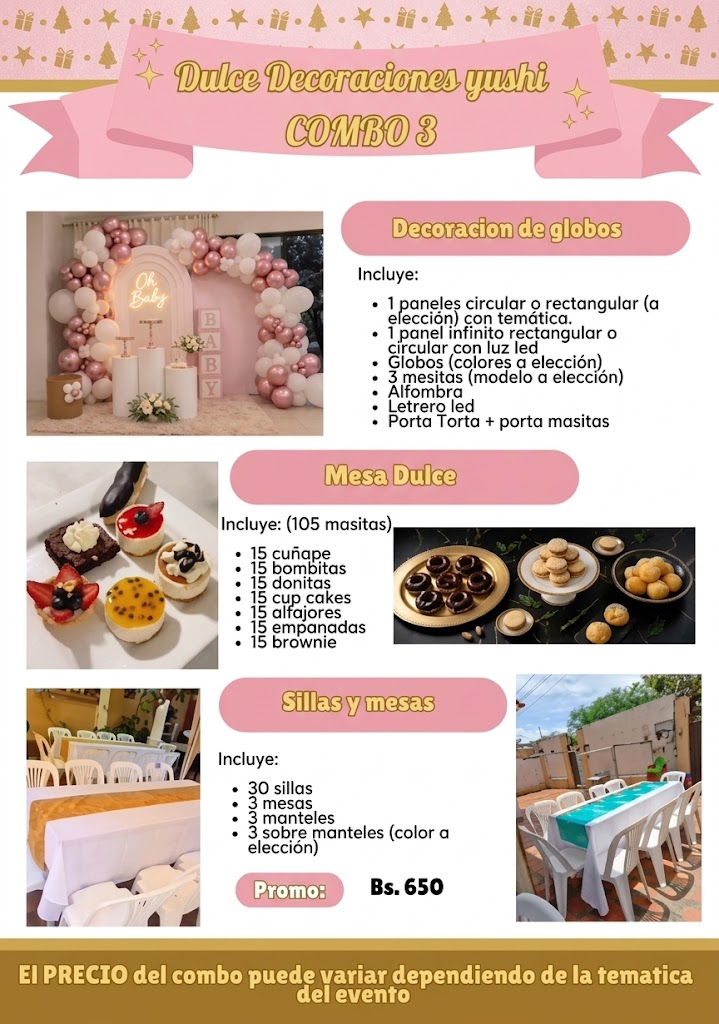
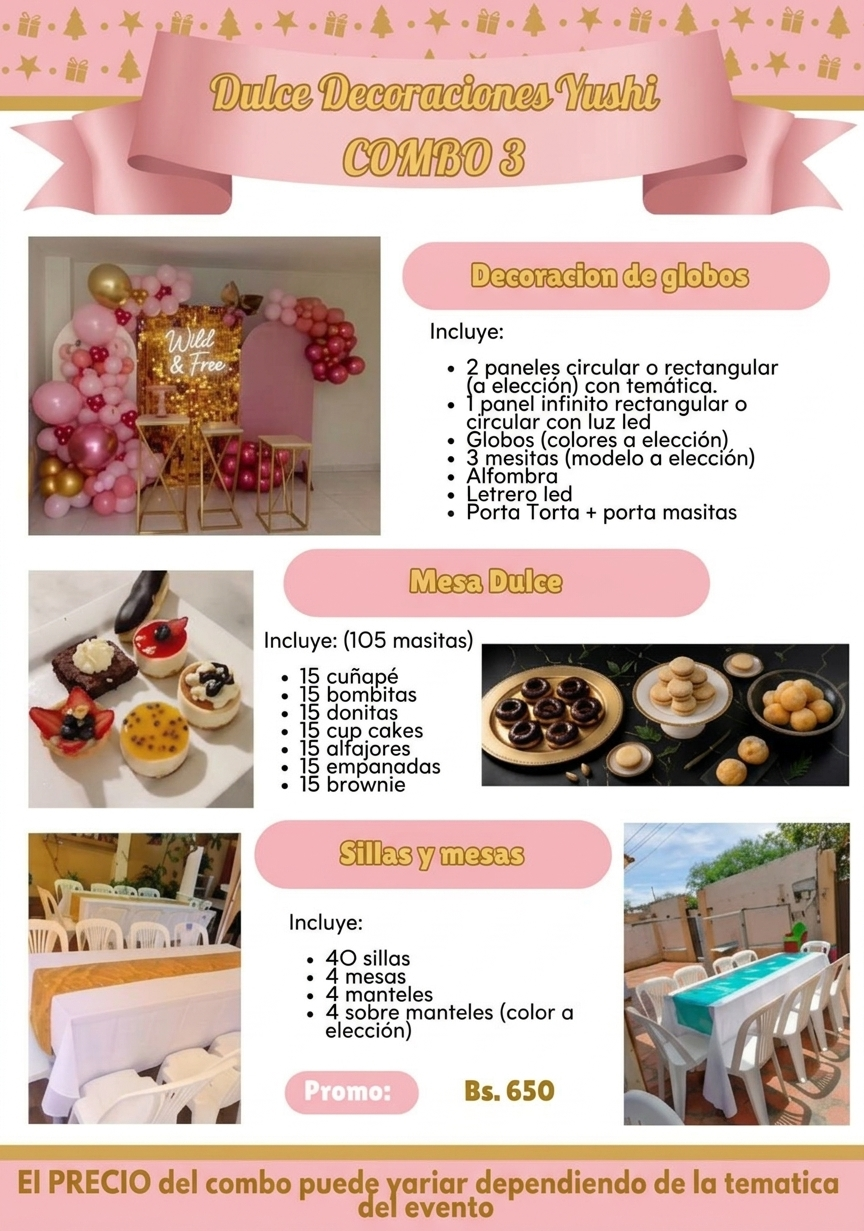
texto2

diff --git a/index.html b/index.html
@@ -20,11 +20,7 @@
         </div>
         <nav class="navbar" id="navbar">
             <a href="#inicio" class="active">INICIO</a>
-            <a href="#nosotros">NOSOTROS</a>
-            <a href="#decoraciones">DECORACIONES</a>
-            <a href="#dulces">DULCES Y POSTRES</a>
-            <a href="#galeria">GALERÍA</a>
-            <a href="#tienda">TIENDA</a>
+            <a href="#galeria">COMBOS</a>
             <a href="#contacto">CONTACTO</a>
         </nav>
         <div class="menu-toggle" id="menu-toggle">
@@ -81,7 +77,7 @@
 
     <!-- SECCIÓN: GALERÍA DE SUEÑOS -->
     <section id="galeria" class="galeria">
-        <h2>GALERÍA DE SUEÑOS</h2>
+        <h2>GALERÍA DE COMBOS</h2>
         <div class="galeria-grid">
             <div class="galeria-item"><img src="images/galeria-1.jpg" alt="Combo 1"></div>
             <div class="galeria-item"><img src="images/galeria-2.jpg" alt="Combo 2"></div>
@@ -105,27 +101,21 @@
                 </div>
             </div>
         </div>
-        <div class="instagram-feed">
-            <h3>SÍGUENOS EN FACEBOOK <br><span class="ig-handle">(Dulce Decoracion YUSHI)</span></h3>
             <div class="ig-grid">
-                <img src="images/ig-1.jpg" alt="IG 1">
-                <img src="images/ig-2.jpg" alt="IG 2">
-                <img src="images/ig-3.jpg" alt="IG 3">
-                <img src="images/ig-4.jpg" alt="IG 4">
+
             </div>
         </div>
     </section>
 
     <!-- FOOTER / CONTACTO -->
-    <footer id="contacto" class="footer">
+    <footer id="contactjo" class="footer">
         <div class="footer-content">
             <div class="footer-info">
-                <p><i class="fas fa-phone-alt"></i> 079 888 6573</p>
-                <p><i class="fas fa-envelope"></i> info@dulcesyushi.com</p>
-                <p><i class="fas fa-globe"></i> dulcesdecoración yushi</p>
+                <p><i class="fas fa-phone-alt"></i> +591 67560111</p>
+                <p><i class="fas fa-envelope"></i> dulcedeecoracionyushi@gmail.com</p>
             </div>
             <div class="footer-address">
-                <p><i class="fas fa-map-marker-alt"></i> San Ruela Monscidin Bolivia<br>173 Coche dr.<br>Cochabamba, Bolivia</p>
+                <p><i class="fas fa-map-marker-alt"></i> Av. 6 de Junio y Nicolás Flores<br>N.- 270<br>Cochabamba, Bolivia</p>
             </div>
             <div class="footer-social">
                 <a href="#"><i class="fab fa-facebook-f"></i></a>
@@ -133,7 +123,7 @@
             </div>
         </div>
         <div class="footer-bottom">
-            <p>Copyright © Dulces Decoración YUSHI</p>
+            <p>Para vivir una vida más dulce, no hace mal un gusto</p>
         </div>
     </footer>
 

diff --git a/css/styles.css b/css/styles.css
@@ -27,9 +27,10 @@ body {
 .header {
     background: var(--white);
     display: flex;
-    flex-direction: column;
-    align-items: center;
-    padding: 15px 20px;
+    flex-direction: row;            /* Alinea en horizontal */
+    justify-content: space-between; /* Logo a la izquierda, menú a la derecha */
+    align-items: center;            /* Centra ambos verticalmente */
+    padding: 10px 40px;
     box-shadow: 0 2px 5px rgba(0,0,0,0.05);
     position: sticky;
     top: 0;
@@ -39,7 +40,7 @@ body {
 .logo {
     height: 70px;
     object-fit: contain;
-    margin-bottom: 10px;
+    margin-bottom: 0; /* Se elimina el margen inferior */
 }
 
 .navbar {
